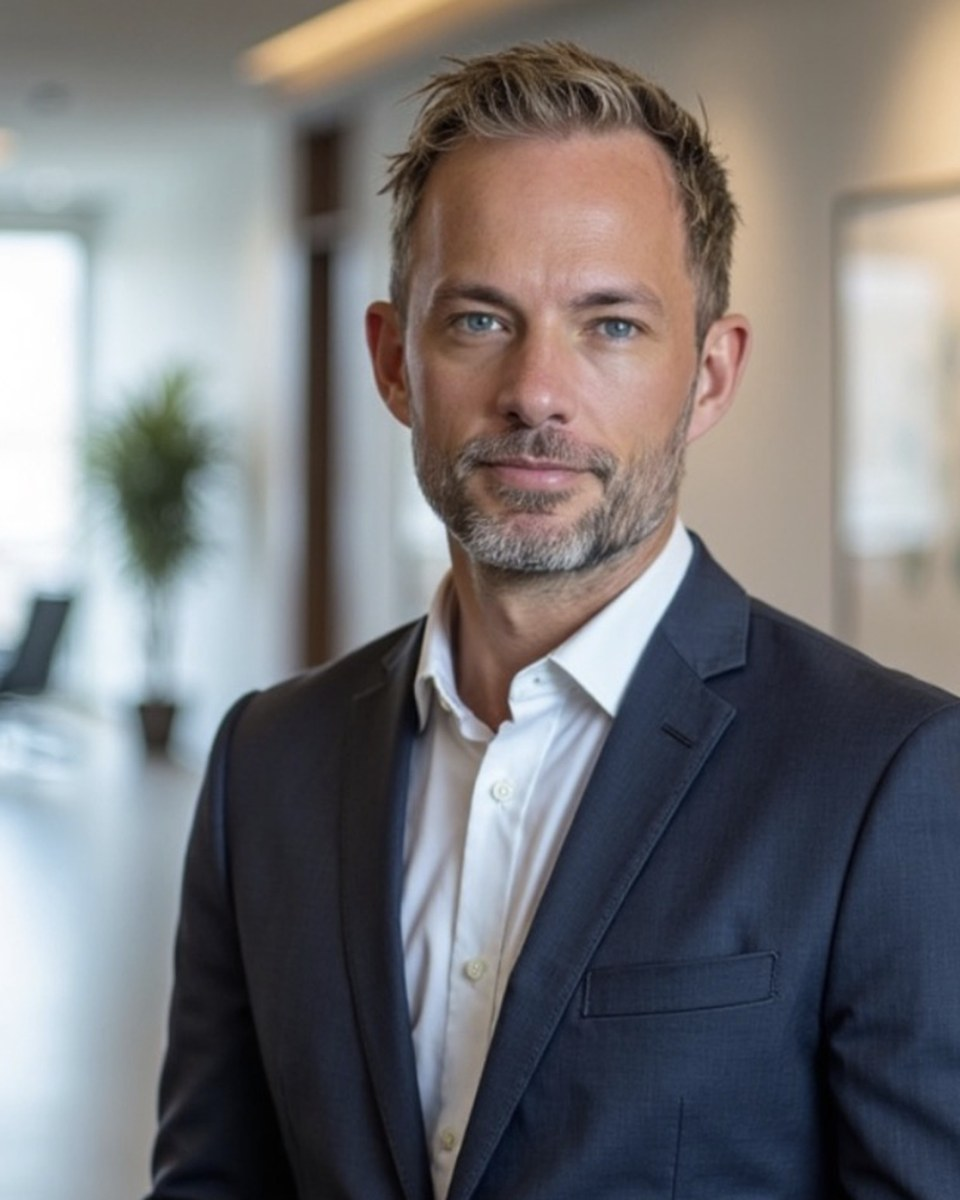
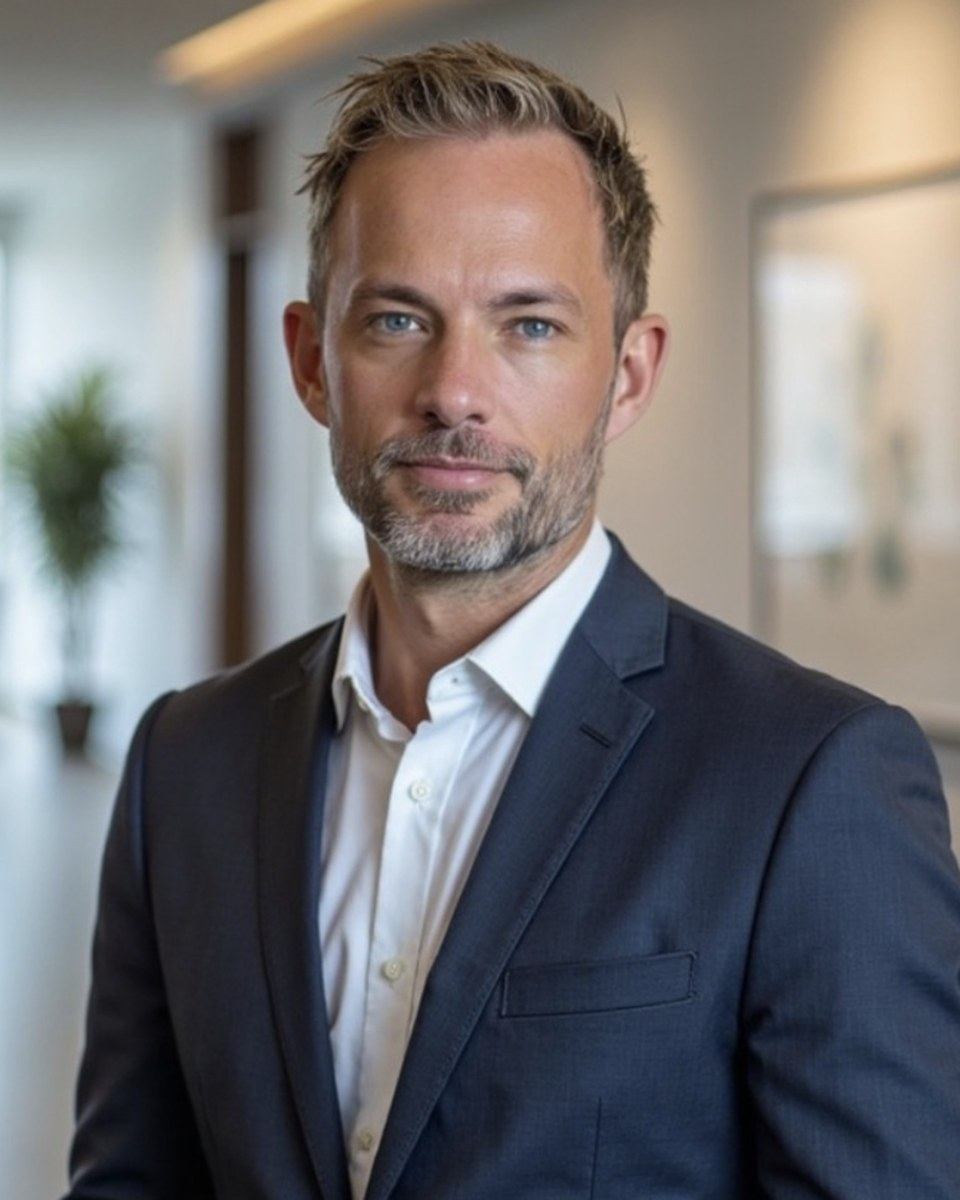
Add photo for Ragnvald Løhren, completing the team section

diff --git a/index.html b/index.html
@@ -1798,7 +1798,7 @@ class Component extends DCLogic {
     const teamDefs = [
       { slot: 'team-lars', name: 'Lars-Henrik Sand', role: 'Gründer og operativ leder', founder: true, src: '/assets/story/team-lars.jpg', bio: 'Driver ERA fra visjon til gjennomføring. Leder strategi, produktutvikling og daglig drift, bygger teamet og utvikler distribusjon og partnerskap.', detail: '', tags: 'Eiendom · Teknologi · Produktutvikling · Digitalisering · Markedsføring' },
       { slot: 'team-markus', name: 'Markus Frost', role: 'Styreleder', founder: false, src: '/assets/story/team-markus.jpg', bio: 'Leder ERAs styrearbeid.', detail: '', tags: '' },
-      { slot: 'team-ragnvald', name: 'Ragnvald Løhren', role: 'Co-Founder · Finans og selskapsutvikling', founder: true, src: '', bio: 'Ansvarlig for ERAs finansielle og selskapsmessige utvikling. Arbeider med kapitalstrategi, finansiering, økonomiske modeller og strategisk utvikling.', detail: '', tags: 'Finans · Selskapsutvikling · Kapital · Strategi' },
+      { slot: 'team-ragnvald', name: 'Ragnvald Løhren', role: 'Co-Founder · Finans og selskapsutvikling', founder: true, src: '/assets/story/team-ragnvald.jpg', bio: 'Ansvarlig for ERAs finansielle og selskapsmessige utvikling. Arbeider med kapitalstrategi, finansiering, økonomiske modeller og strategisk utvikling.', detail: '', tags: 'Finans · Selskapsutvikling · Kapital · Strategi' },
       { slot: 'team-thomas', name: 'Thomas Floden', role: 'Co-Founder · Teknologiansvarlig', founder: true, src: '/assets/story/team-thomas.jpg', bio: 'Leder den teknologiske utviklingen av ERA og arkitekturen bak plattformen. Ansvarlig for teknologi, systemarkitektur og realiseringen av produktvisjonen.', detail: '', tags: 'Teknologi · Programvareutvikling · Systemarkitektur · Produktutvikling' },
       { slot: 'team-magnus', name: 'Magnus Stensrud', role: 'Daglig leder · Administrasjon og salg', founder: false, src: '/assets/story/team-magnus.jpg', bio: 'Ansvarlig for den daglige driften av ERA og selskapets operative fremdrift. Leder administrasjon, salgsarbeid og oppfølging av kunder og kommersielle aktiviteter.', detail: '', tags: 'Ledelse · Salg · Administrasjon · Kundeutvikling' },
       { slot: 'team-eskild', name: 'Eskild Løken Ugland', role: 'Styremedlem og partner', founder: false, src: '/assets/story/team-eskild.jpg', bio: 'Bidrar til ERAs strategiske og kommersielle utvikling gjennom styrearbeidet, med særlig forståelse for markedet, distribusjon og aktørene rundt boligen.', detail: 'Tidligere salgs- og markedsdirektør Block Watne, tidligere kjedesjef Malprofil og Mestergruppen.', tags: 'Salg · Faghandel · Distribusjon · Partnerskap' },

diff --git a/om-era/index.html b/om-era/index.html
@@ -1635,7 +1635,7 @@ class Component extends DCLogic {
     const teamDefs = [
       { slot: 'team-lars', name: 'Lars-Henrik Sand', role: 'Gründer og operativ leder', founder: true, src: '/assets/story/team-lars.jpg', bio: 'Driver ERA fra visjon til gjennomføring. Leder strategi, produktutvikling og daglig drift, bygger teamet og utvikler distribusjon og partnerskap.', detail: '', tags: 'Eiendom · Teknologi · Produktutvikling · Digitalisering · Markedsføring' },
       { slot: 'team-markus', name: 'Markus Frost', role: 'Styreleder', founder: false, src: '/assets/story/team-markus.jpg', bio: 'Leder ERAs styrearbeid.', detail: '', tags: '' },
-      { slot: 'team-ragnvald', name: 'Ragnvald Løhren', role: 'Co-Founder · Finans og selskapsutvikling', founder: true, src: '', bio: 'Ansvarlig for ERAs finansielle og selskapsmessige utvikling. Arbeider med kapitalstrategi, finansiering, økonomiske modeller og strategisk utvikling.', detail: '', tags: 'Finans · Selskapsutvikling · Kapital · Strategi' },
+      { slot: 'team-ragnvald', name: 'Ragnvald Løhren', role: 'Co-Founder · Finans og selskapsutvikling', founder: true, src: '/assets/story/team-ragnvald.jpg', bio: 'Ansvarlig for ERAs finansielle og selskapsmessige utvikling. Arbeider med kapitalstrategi, finansiering, økonomiske modeller og strategisk utvikling.', detail: '', tags: 'Finans · Selskapsutvikling · Kapital · Strategi' },
       { slot: 'team-thomas', name: 'Thomas Floden', role: 'Co-Founder · Teknologiansvarlig', founder: true, src: '/assets/story/team-thomas.jpg', bio: 'Leder den teknologiske utviklingen av ERA og arkitekturen bak plattformen. Ansvarlig for teknologi, systemarkitektur og realiseringen av produktvisjonen.', detail: '', tags: 'Teknologi · Programvareutvikling · Systemarkitektur · Produktutvikling' },
       { slot: 'team-magnus', name: 'Magnus Stensrud', role: 'Daglig leder · Administrasjon og salg', founder: false, src: '/assets/story/team-magnus.jpg', bio: 'Ansvarlig for den daglige driften av ERA og selskapets operative fremdrift. Leder administrasjon, salgsarbeid og oppfølging av kunder og kommersielle aktiviteter.', detail: '', tags: 'Ledelse · Salg · Administrasjon · Kundeutvikling' },
       { slot: 'team-eskild', name: 'Eskild Løken Ugland', role: 'Styremedlem og partner', founder: false, src: '/assets/story/team-eskild.jpg', bio: 'Bidrar til ERAs strategiske og kommersielle utvikling gjennom styrearbeidet, med særlig forståelse for markedet, distribusjon og aktørene rundt boligen.', detail: 'Tidligere salgs- og markedsdirektør Block Watne, tidligere kjedesjef Malprofil og Mestergruppen.', tags: 'Salg · Faghandel · Distribusjon · Partnerskap' },
